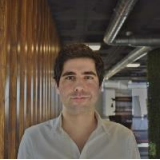
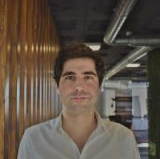
Update data and photo

diff --git a/_sass/_base.scss b/_sass/_base.scss
@@ -80,7 +80,7 @@ p {
     max-width: 100px;
     margin-bottom: 15px;
     border: 0px solid #fff;
-    border-radius: 100%;
+    //border-radius: 100%;
     box-shadow: 0 1px 1px rgba(0, 0, 0, 0.1);
   }
   .contact-list {
